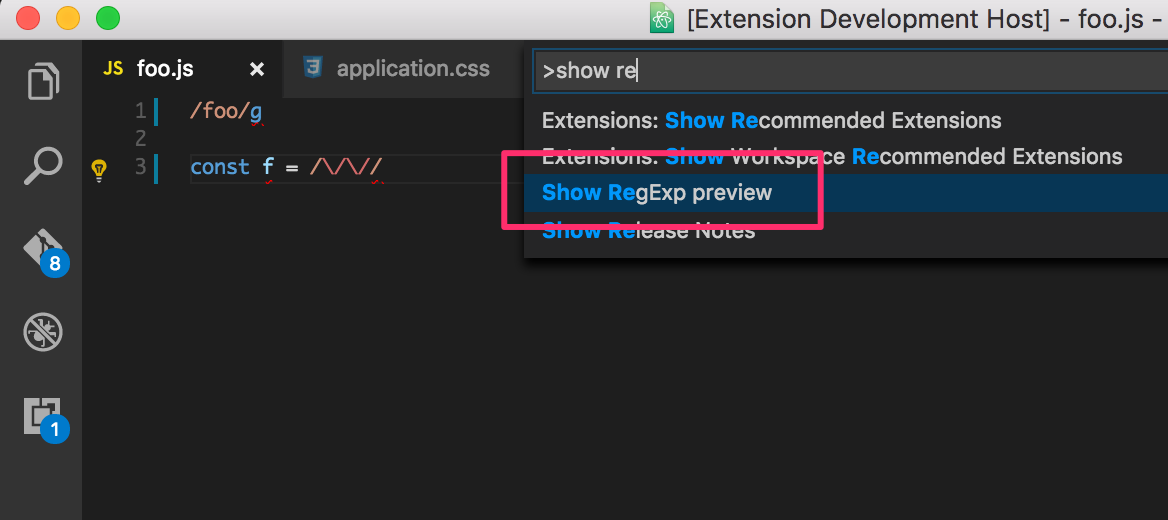
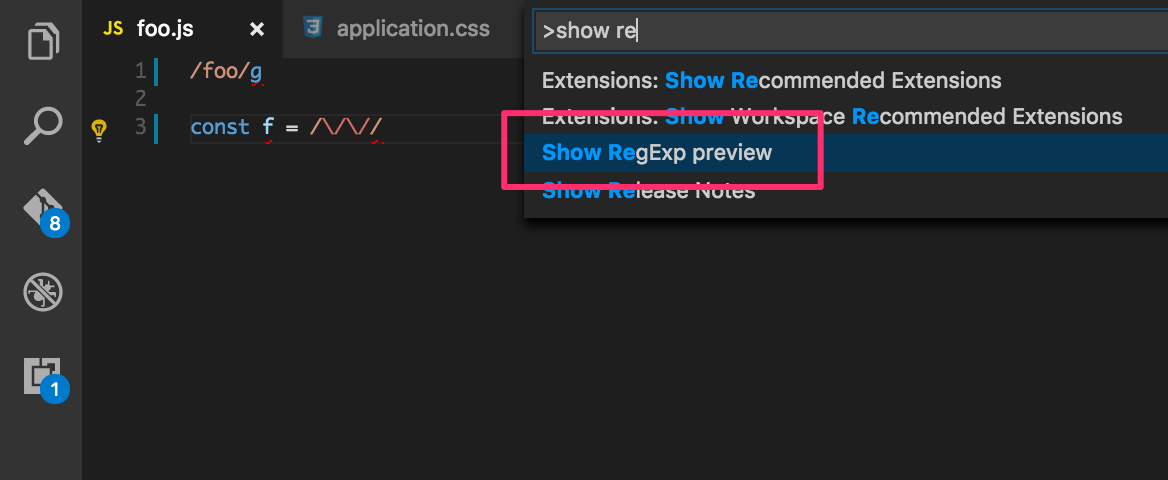
bug fix

diff --git a/src/diagram.ts b/src/diagram.ts
@@ -51,7 +51,7 @@ export const lexer = (ss: string, tokens: RegExpToken[] = []): RegExpToken[] => 
           kind = TokenKind[TokenKind.Extraneous]
           inRegex = false
         } else {
-          kind = isPreviousRegex ? TokenKind[TokenKind.RegexLiteralBody] : TokenKind[TokenKind.Extraneous]
+          kind = isPreviousRegex && prevToken.kind !== TokenKind[TokenKind.RegexLiteralEnd] ? TokenKind[TokenKind.RegexLiteralBody] : TokenKind[TokenKind.Extraneous]
           inRegex = isPreviousRegex
         }
       }

diff --git a/src/diagram.test.ts b/src/diagram.test.ts
@@ -183,4 +183,8 @@ describe("diagram", () => {
   it("can extract with regex string", () => {
     deepStrictEqual(extractRegex("/foo/g"), [{body: "foo", option: "g"}])
   })
+  it("/(^ +| {2,}| +$)/", () => {
+    const expect = extractRegex("const parts = text.split(/(^ +| {2,}| +$)/)")
+    deepStrictEqual(expect, [{body: "(^ +| {2,}| +$)"}])
+  })
 })

diff --git a/references.d.ts b/references.d.ts
@@ -1,2 +1,2 @@
-/// <reference path="./src/regexp.d.ts"/>
-/// <reference path="./src/railroad-diagrams.d.ts" />
+/// <reference path="./typings/regexp.d.ts"/>
+/// <reference path="./typings/railroad-diagrams.d.ts" />

diff --git a/README.md b/README.md
@@ -1,14 +1,12 @@
 # regex-railroad-diagram package
 
 A regular expression railroad diagram view for regular expression under cursor.
-This is VSCode version of [regex railroad diagrams](https://github.com/klorenz/atom-regex-railroad-diagrams) Atom package.
+This is inspired by [regex railroad diagrams](https://github.com/klorenz/atom-regex-railroad-diagrams).
 
 ![regex-railraod-diagram in action](command.png)
 
 ![regex-railraod-diagram in action](diagram.png)
 
-It also shows you a parsing error message, if your regex is not syntactically
-correct.
+It also shows you a parsing error message, if your regex is not syntactically correct.
 
-For now it only supports most common regex features, but there are more
-to come.
+For now it only supports most common regex features, but there are more to come.
